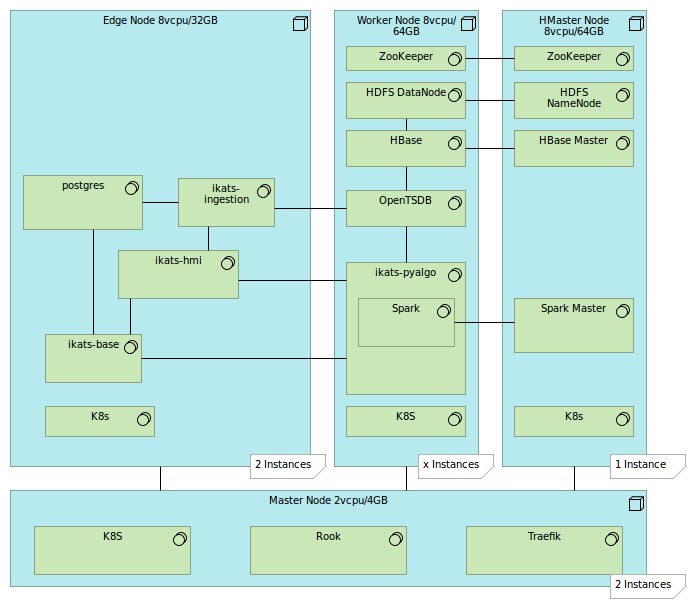
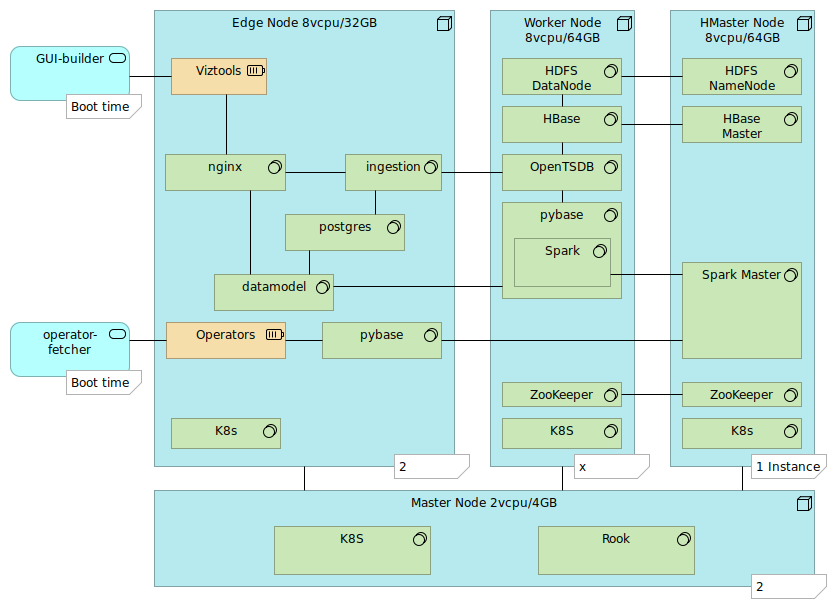
updated architecture
art #496
Changelog: (MAJ) updated architecture documentation (#496)

diff --git a/architecture.md b/architecture.md
@@ -2,16 +2,19 @@
 
 IKATS project is composed of following github repositories:
 
-- _IKATS environnement_
+- _IKATS environment_
   - [ikats.github.io](https://github.com/IKATS/ikats.github.io): IKATS website
   - [ikats-sandbox](https://github.com/IKATS/ikats-sandbox): sandbox to play with IKATS
 - _IKATS software core_:
   - [ikats-ingestion](https://github.com/IKATS/ikats-ingestion): IKATS data ingestion application
-  - [ikats-datamodel](https://github.com/IKATS/ikats-datamodel): java resources API (and java algorithms)
+  - [ikats-datamodel](https://github.com/IKATS/ikats-datamodel): java resources API (and java operators)
   - [ikats-hmi](https://github.com/IKATS/ikats-hmi): IKATS Graphical User Interface (javascript)
-  - [ikats-pybase](https://github.com/IKATS/ikats-pybase): python core of IKATS (for algorithms: catalog management and running engine)
-  - [ikats-pyalgo](https://github.com/IKATS/ikats-pyalgo): python algorithms developed in IKATS
+  - [ikats-pybase](https://github.com/IKATS/ikats-pybase): python core of IKATS (for operators: catalog management and running engine)
   - [ikats-baseimages](https://github.com/IKATS/ikats-baseimages): docker base stack components
+- _IKATS operators_:
+  - [op-*](https://github.com/IKATS?q=op-): list of all IKATS operators
+- _IKATS viztools_:
+  - [vt-*](https://github.com/IKATS?q=op-): list of all IKATS viztools (results visualization tools)
 
 ## Logical infrastructure
 
@@ -21,15 +24,13 @@ These choices improve the **scalability** and the **reliability** of the applica
 
 IKATS is designed to be deployed on a cluster with following architecture:
 
-![Doc Archi](img/LogicalView.png)  
-**NB:**
-
-- ikats-pybase is included in ikats-pyalgo when deployed
-- ikats-base matches ikats-datamodel
+![Doc Archi](img/LogicalView.png)
 
 ## Physical infrastructure
 
-In order to implement the above logical structure, IKATS can be deployed on a cluster composed of a set of virtual machines. You can use as many virtual machines as you need according to the needed computing power. For example, by deploying additional **Worker Nodes**, you increase the amount of data that can be computed and/or the computing celerity of algorithms and visualization tools.
+In order to implement the above logical structure, IKATS can be deployed on a cluster composed of a set of virtual machines. 
+You can use as many virtual machines as you need according to the needed computing power. 
+For example, by deploying additional **Worker Nodes**, you increase the amount of data that can be computed and/or the computing celerity of operators and visualization tools.
 
 **(This is an Example)**  
 Following properties in terms of resource (vcpu/RAM per node) can be used for a cluster:
@@ -42,7 +43,7 @@ IKATS uses following components:
 - HDFS Hbase
 - Spark
 - Scikit-learn
-- Open TSDB
+- OpenTSDB
 - PostgreSQL
 - Numpy
 - Docker

diff --git a/README.md b/README.md
@@ -1,1 +1,16 @@
 # ![IKATS Logo](https://ikats.github.io/img/Logo-ikats-icon.png) IKATS
+
+## Overview
+
+IKATS provides an easy-to-use toolkit for the handling,
+exploratory analysis and visualization of large volumes of Time Series (TS) data within a single Big Data framework.
+
+**Find more about IKATS at [https://ikats.org](https://ikats.org)**
+
+## Contributing to IKATS
+
+If you’re interested in contributing by adding a new operator or a new visualization tool, please refer to the a specific procedure which is described in the [contributing guide](CONTRIBUTING.md)
+
+## Architecture
+
+An explanation of the internal architecture is detailed [here](architecture.md)
